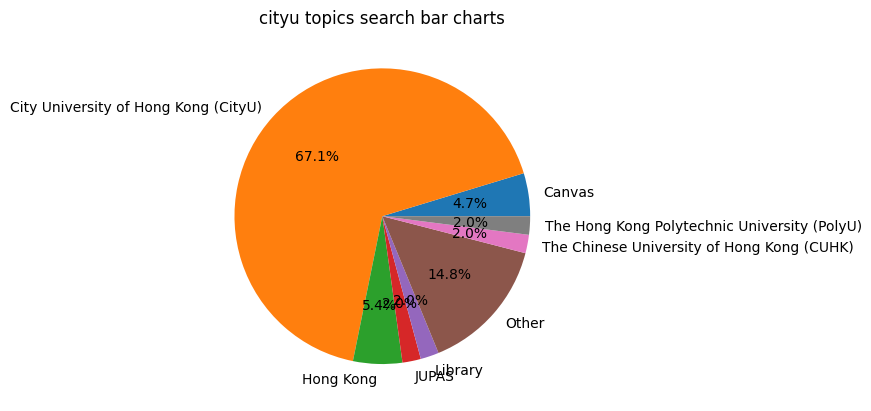
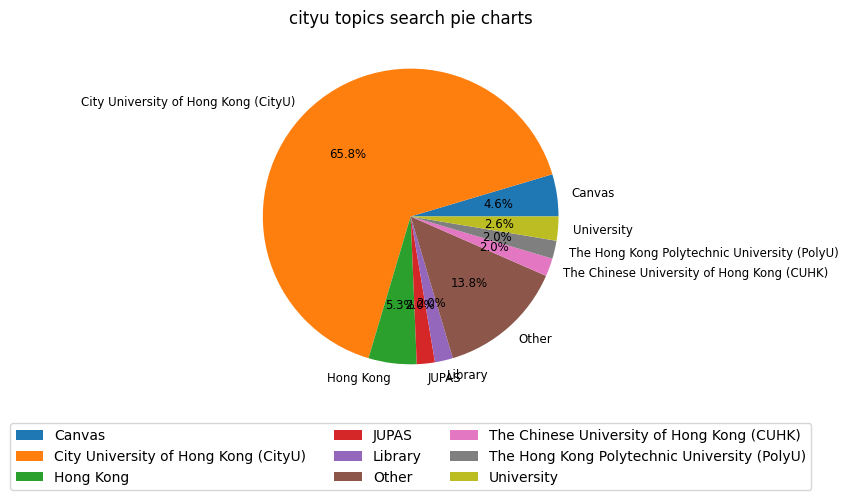
update download function and lable visible

diff --git a/serp_api.py b/serp_api.py
@@ -55,7 +55,8 @@ def fetch_data(keyword,type):
             df_gp.rename(columns={"value": "continent_value"}, inplace=True)
             df_gp = df_gp[df_gp['continent_value'] >= 1]
             plt.pie(df_gp['continent_value'], labels=df_gp['continent'],
-                    autopct='%1.1f%%', startangle=0, pctdistance=0.65)
+                    autopct='%1.1f%%', startangle=0, pctdistance=0.65, textprops={'fontsize': 8.5})
+            plt.legend(loc='upper center', bbox_to_anchor=(0.5, -0.04), ncol=3)
             plt.title('%s region search pie chart '%keyword)
             image_filename = f'static/img/{keyword}_region.png'
             plt.savefig(image_filename,bbox_inches='tight')
@@ -108,9 +109,10 @@ def fetch_data(keyword,type):
             # df_gp = df.groupby(['Topic_Type']).agg(value=('value', 'sum'))
             df_gp = df_gp.reset_index()
             plt.pie(df_gp['value'], labels=df_gp['title'],
-                    autopct='%1.1f%%', startangle=0)
+                    autopct='%1.1f%%', startangle=0, textprops={'fontsize': 8.5})
+            plt.legend(loc='upper center', bbox_to_anchor=(0.5, -0.04), ncol=3)
             plt.title('%s topics search pie charts'%keyword)
-            image_filename = f'static/img/{keyword}_topics.png'    
+            image_filename = f'static/img/{keyword}_topics.png'
             plt.savefig(image_filename,bbox_inches='tight')
             data_list.append({"image_filename": image_filename})
             plt.close()

diff --git a/app.py b/app.py
@@ -42,11 +42,6 @@ def signup():
     form = SignUpForm()
     return render_template('signup.html', form=form, active_page='signup')
 
-@app.route('/download')
-def download_file():
-    p = "cityu_queries.png"
-    return send_file(p,as_attachment=True)
-
 if __name__ == '__main__':
     app.run(debug="True")
 
